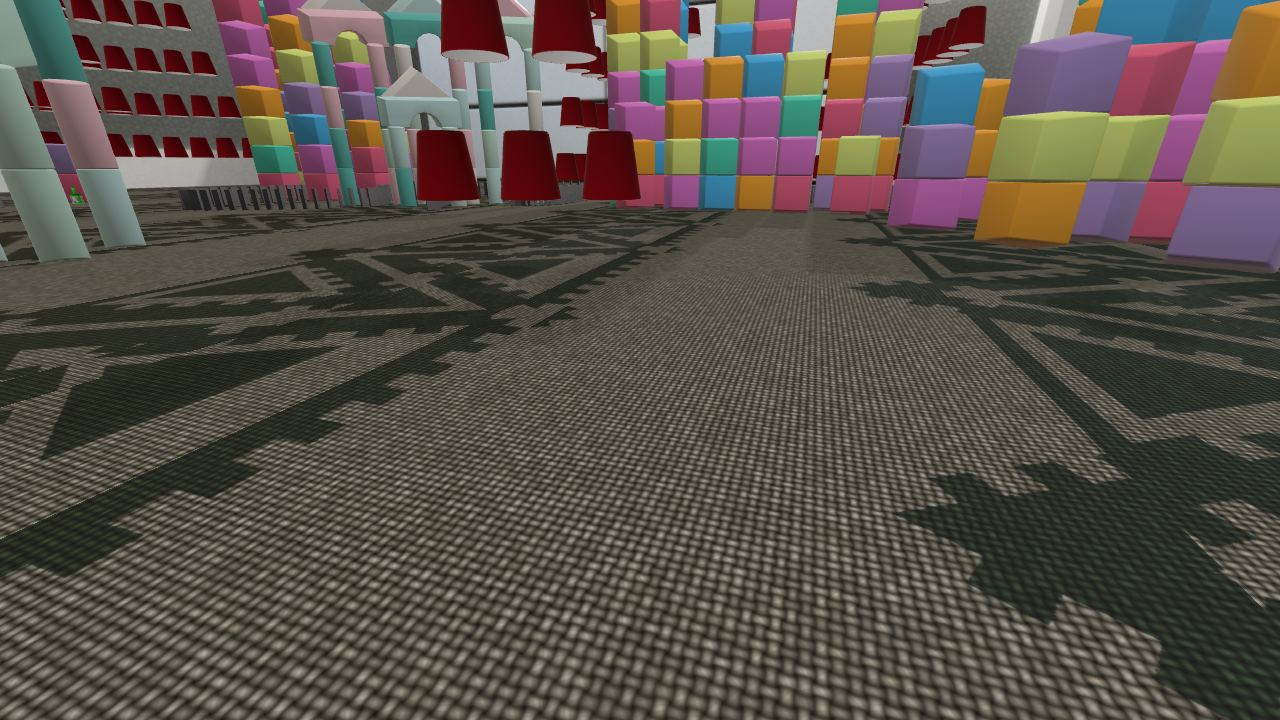
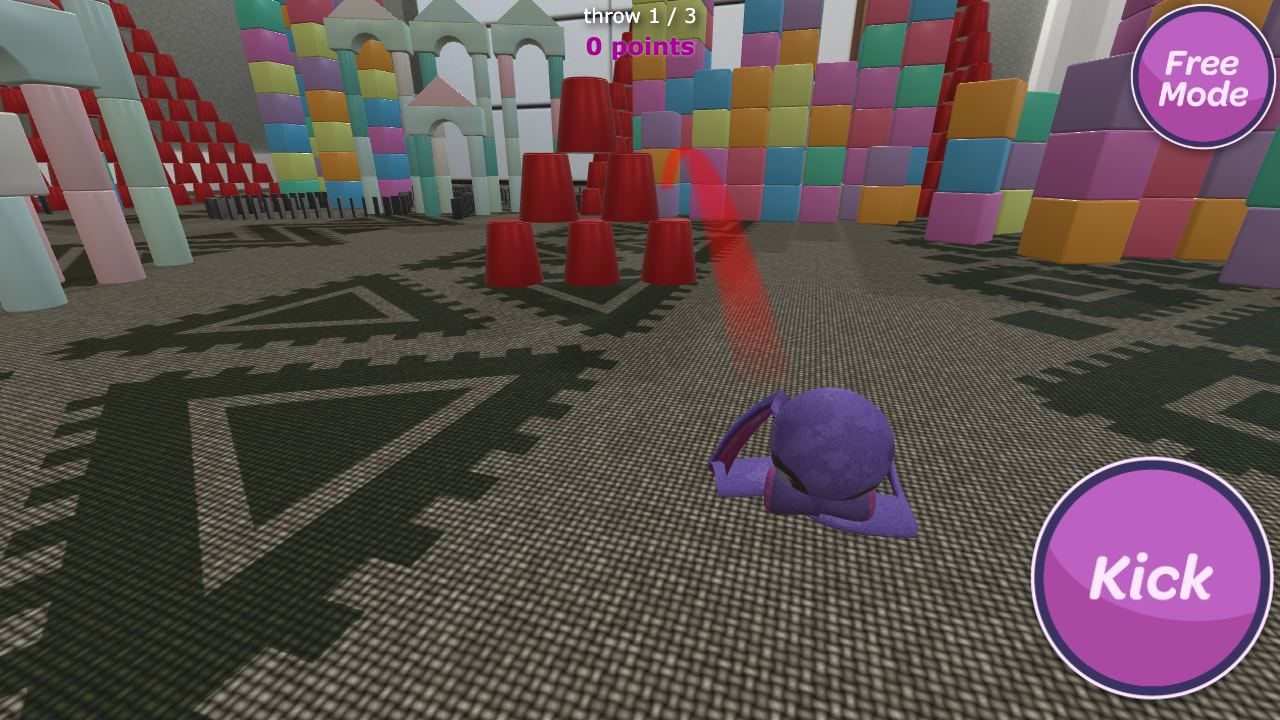
fix(playroom): match source ragdoll pose

diff --git a/lab/lite/src/demos/playroom/ragdoll.ts b/lab/lite/src/demos/playroom/ragdoll.ts
@@ -200,6 +200,7 @@ function cloneBunny(scene: SceneContext, assets: PlayroomAssets): SceneNode {
 export function createBunnyRagdoll(scene: SceneContext, physics: PhysicsWorld, assets: PlayroomAssets, world: WorldState, launch: Vec3): RagdollState {
     const visualRoot = cloneBunny(scene, assets);
     const records = assets.rig.joints.map((joint) => addBody(scene, physics, world, joint, launch));
+    const jointIndexByName = new Map(assets.rig.joints.map((joint, index) => [joint.name, index]));
     const byName = new Map(assets.rig.joints.map((joint, index) => [joint.name, { joint, record: records[index]! }]));
     const constraints = [];
     for (const joint of assets.rig.joints) {
@@ -221,6 +222,27 @@ export function createBunnyRagdoll(scene: SceneContext, physics: PhysicsWorld, a
     }
     const bones = Object.fromEntries(assets.rig.joints.map((joint) => [joint.name, getBoneByName(assets.bunnySkeleton, joint.name)]));
     const root = byName.get(assets.rig.root)!.record;
+    const jointBindPoses = assets.rig.joints.map((joint) => {
+        const parentIndex = joint.nearestConfiguredParent === null ? -1 : jointIndexByName.get(joint.nearestConfiguredParent)!;
+        const parent = parentIndex < 0 ? null : assets.rig.joints[parentIndex]!;
+        return {
+            rotation: bindWorldRotation(joint),
+            colliderOffset: colliderOffsetWorld(joint),
+            parentIndex,
+            parentLocalOffset:
+                parent === null
+                    ? { x: 0, y: 0, z: 0 }
+                    : rotateVector(quaternionInverse(bindWorldRotation(parent)), {
+                          x: joint.bindWorldPosition[0] - parent.bindWorldPosition[0],
+                          y: joint.bindWorldPosition[1] - parent.bindWorldPosition[1],
+                          z: joint.bindWorldPosition[2] - parent.bindWorldPosition[2],
+                      }),
+        };
+    });
+    const jointDepth = (index: number): number => {
+        const parentIndex = jointBindPoses[index]!.parentIndex;
+        return parentIndex < 0 ? 0 : jointDepth(parentIndex) + 1;
+    };
     const ragdoll: RagdollState = {
         records,
         constraints,
@@ -236,12 +258,10 @@ export function createBunnyRagdoll(scene: SceneContext, physics: PhysicsWorld, a
                 w: record.mesh.rotationQuaternion.w,
             },
         })),
-        jointBindPoses: assets.rig.joints.map((joint) => ({
-            rotation: bindWorldRotation(joint),
-            colliderOffset: colliderOffsetWorld(joint),
-        })),
-        poseOffsetScratch: { x: 0, y: 0, z: 0 },
-        poseRotationScratch: { x: 0, y: 0, z: 0, w: 1 },
+        jointBindPoses,
+        poseOrder: assets.rig.joints.map((_, index) => index).sort((left, right) => jointDepth(left) - jointDepth(right)),
+        posePositions: assets.rig.joints.map(() => ({ x: 0, y: 0, z: 0 })),
+        poseRotations: assets.rig.joints.map(() => ({ x: 0, y: 0, z: 0, w: 1 })),
         launched: false,
     };
     syncBunnyPose(assets, ragdoll);
@@ -249,7 +269,7 @@ export function createBunnyRagdoll(scene: SceneContext, physics: PhysicsWorld, a
 }
 
 export function syncBunnyPose(assets: PlayroomAssets, ragdoll: RagdollState): void {
-    for (let index = 0; index < assets.rig.joints.length; index++) {
+    for (const index of ragdoll.poseOrder) {
         const joint = assets.rig.joints[index]!;
         const bone = ragdoll.bones[joint.name];
         const record = ragdoll.records[index]!;
@@ -258,16 +278,27 @@ export function syncBunnyPose(assets: PlayroomAssets, ragdoll: RagdollState): vo
         }
         const bodyRotation = record.mesh.rotationQuaternion;
         const bindPose = ragdoll.jointBindPoses[index]!;
-        const colliderOffset = ragdoll.poseOffsetScratch;
-        const rotation = ragdoll.poseRotationScratch;
-        rotateVectorToRef(bodyRotation, bindPose.colliderOffset, colliderOffset);
+        const position = ragdoll.posePositions[index]!;
+        const rotation = ragdoll.poseRotations[index]!;
         multiplyQuaternionToRef(bodyRotation, bindPose.rotation, rotation);
+        if (bindPose.parentIndex < 0) {
+            rotateVectorToRef(bodyRotation, bindPose.colliderOffset, position);
+            position.x = record.mesh.position.x - position.x;
+            position.y = record.mesh.position.y - position.y;
+            position.z = record.mesh.position.z - position.z;
+        } else {
+            const parentPosition = ragdoll.posePositions[bindPose.parentIndex]!;
+            rotateVectorToRef(ragdoll.poseRotations[bindPose.parentIndex]!, bindPose.parentLocalOffset, position);
+            position.x += parentPosition.x;
+            position.y += parentPosition.y;
+            position.z += parentPosition.z;
+        }
         setBoneWorldPoseDeferred(
             assets.bunnySkeleton,
             bone,
-            (record.mesh.position.x - colliderOffset.x) / assets.rig.gameScale,
-            (record.mesh.position.y - colliderOffset.y) / assets.rig.gameScale,
-            (record.mesh.position.z - colliderOffset.z) / assets.rig.gameScale,
+            position.x / assets.rig.gameScale,
+            position.y / assets.rig.gameScale,
+            position.z / assets.rig.gameScale,
             rotation.x,
             rotation.y,
             rotation.z,

diff --git a/tests/lite/unit/playroom-ragdoll.test.ts b/tests/lite/unit/playroom-ragdoll.test.ts
@@ -15,7 +15,6 @@ import type { Bone, PhysicsWorld, Quat, SceneContext, Skeleton } from "../../../
 import {
     bindWorldRotation,
     colliderOffsetWorld,
-    currentColliderOffsetWorld,
     launchBunny,
     ragdollBodyPosition,
     ragdollJointPivots,
@@ -152,12 +151,38 @@ describe("The Playroom ragdoll bind conversion", () => {
             records,
             bones: Object.fromEntries(bones.map((bone) => [bone.name, bone])),
             root: records[rig.joints.findIndex((joint) => joint.name === rig.root)]!,
-            jointBindPoses: rig.joints.map((joint) => ({
-                rotation: bindWorldRotation(joint),
-                colliderOffset: colliderOffsetWorld(joint),
-            })),
-            poseOffsetScratch: { x: 0, y: 0, z: 0 },
-            poseRotationScratch: { x: 0, y: 0, z: 0, w: 1 },
+            jointBindPoses: rig.joints.map((joint) => {
+                const parentIndex = joint.nearestConfiguredParent === null ? -1 : rig.joints.findIndex((candidate) => candidate.name === joint.nearestConfiguredParent);
+                const parent = parentIndex < 0 ? null : rig.joints[parentIndex]!;
+                const parentRotation = parent === null ? identity : bindWorldRotation(parent);
+                return {
+                    rotation: bindWorldRotation(joint),
+                    colliderOffset: colliderOffsetWorld(joint),
+                    parentIndex,
+                    parentLocalOffset:
+                        parent === null
+                            ? { x: 0, y: 0, z: 0 }
+                            : rotateByQuaternion(
+                                  { x: -parentRotation.x, y: -parentRotation.y, z: -parentRotation.z, w: parentRotation.w },
+                                  {
+                                      x: joint.bindWorldPosition[0] - parent.bindWorldPosition[0],
+                                      y: joint.bindWorldPosition[1] - parent.bindWorldPosition[1],
+                                      z: joint.bindWorldPosition[2] - parent.bindWorldPosition[2],
+                                  }
+                              ),
+                };
+            }),
+            poseOrder: rig.joints
+                .map((_, index) => index)
+                .sort((left, right) => {
+                    const depth = (index: number): number => {
+                        const parent = rig.joints[index]!.nearestConfiguredParent;
+                        return parent === null ? 0 : depth(rig.joints.findIndex((joint) => joint.name === parent)) + 1;
+                    };
+                    return depth(left) - depth(right);
+                }),
+            posePositions: rig.joints.map(() => ({ x: 0, y: 0, z: 0 })),
+            poseRotations: rig.joints.map(() => ({ x: 0, y: 0, z: 0, w: 1 })),
         } as unknown as RagdollState;
         const assets = { rig, bunnySkeleton: skeleton } as unknown as PlayroomAssets;
 
@@ -167,16 +192,10 @@ describe("The Playroom ragdoll bind conversion", () => {
         expect(skeleton._overrides.size).toBe(0);
         expect(skeleton._worldOverrides.size).toBe(rig.joints.length);
         for (const [index, joint] of rig.joints.entries()) {
-            const record = records[index]!;
-            const bodyRotation = record.mesh.rotationQuaternion;
-            const offset = currentColliderOffsetWorld(joint, bodyRotation);
             const matrix = skeleton._worldOverrides.get(index)!;
-            const expectedPosition = [
-                (record.mesh.position.x - offset.x) / rig.gameScale,
-                (record.mesh.position.y - offset.y) / rig.gameScale,
-                (record.mesh.position.z - offset.z) / rig.gameScale,
-            ];
-            expectedPosition.forEach((value, axis) => expect(matrix[12 + axis]).toBeCloseTo(value, 5));
+            const expectedPosition = ragdoll.posePositions[index]!;
+            [expectedPosition.x, expectedPosition.y, expectedPosition.z].forEach((value, axis) => expect(matrix[12 + axis]).toBeCloseTo(value / rig.gameScale, 5));
+            const bodyRotation = records[index]!.mesh.rotationQuaternion;
             const desiredRotation = multiplyQuaternions(bodyRotation, bindWorldRotation(joint));
             const expectedAxes = [
                 rotateByQuaternion(desiredRotation, { x: -1, y: 0, z: 0 }),
@@ -190,6 +209,9 @@ describe("The Playroom ragdoll bind conversion", () => {
                 expect(matrix[offset + 2]).toBeCloseTo(axis.z, 5);
             });
         }
+        const armIndex = rig.joints.findIndex((joint) => joint.name === "arm_r");
+        const armMatrix = skeleton._worldOverrides.get(armIndex)!;
+        expect(armMatrix[12]).not.toBeCloseTo(records[armIndex]!.mesh.position.x / rig.gameScale, 2);
     });
 
     it("keeps joint anchors coincident and uses source joint axes", () => {

diff --git a/tests/lite/integration/playroom/ragdoll.spec.ts b/tests/lite/integration/playroom/ragdoll.spec.ts
@@ -94,6 +94,10 @@ function loadRagdollBindLandmarks(): RagdollBindLandmark[] {
 }
 
 const ragdollBindLandmarks = loadRagdollBindLandmarks();
+const ragdollRig = JSON.parse(readFileSync(resolve(process.cwd(), "lab", "public", "playroom", "gltf", "bunny-rig.json"), "utf8")) as {
+    root: string;
+    joints: Array<{ name: string; nearestConfiguredParent: string | null }>;
+};
 
 function quaternionMultiply(left: readonly number[], right: readonly number[]): number[] {
     return [
@@ -134,8 +138,32 @@ function expectFinalSkinAligned(before: RagdollSkinSnapshot, current: RagdollSki
     expect(current.gpu.jointsBufferId).toBe(before.gpu.jointsBufferId);
     expect(current.gpu.weightsBufferId).toBe(before.gpu.weightsBufferId);
 
+    const expectedPositions = new Map<string, readonly number[]>();
+    const unresolved = new Set(ragdollRig.joints.map((joint) => joint.name));
+    while (unresolved.size > 0) {
+        let resolved = false;
+        for (const joint of ragdollRig.joints) {
+            if (!unresolved.has(joint.name) || (joint.nearestConfiguredParent !== null && !expectedPositions.has(joint.nearestConfiguredParent))) {
+                continue;
+            }
+            if (joint.nearestConfiguredParent === null) {
+                expectedPositions.set(joint.name, current.bodies[joint.name]!.jointPosition);
+            } else {
+                const parentName = joint.nearestConfiguredParent;
+                const parentDelta = quaternionMultiply(current.bodies[parentName]!.rotation, inverseQuaternion(before.bodies[parentName]!.rotation));
+                expectedPositions.set(
+                    joint.name,
+                    add(expectedPositions.get(parentName)!, rotate(parentDelta, subtract(before.bones[joint.name]!.position, before.bones[parentName]!.position)))
+                );
+            }
+            unresolved.delete(joint.name);
+            resolved = true;
+        }
+        expect(resolved, "ragdoll configured-joint hierarchy").toBe(true);
+    }
+
     for (const configuredName of Object.keys(current.bodies)) {
-        expect(distance(current.bones[configuredName]!.position, current.bodies[configuredName]!.jointPosition), `${configuredName} palette joint`).toBeLessThan(0.001);
+        expect(distance(current.bones[configuredName]!.position, expectedPositions.get(configuredName)!), `${configuredName} source hierarchy`).toBeLessThan(0.001);
         const delta = quaternionMultiply(current.bodies[configuredName]!.rotation, inverseQuaternion(before.bodies[configuredName]!.rotation));
         for (let axis = 0; axis < 3; axis++) {
             expect(distance(current.bones[configuredName]!.axes[axis]!, rotate(delta, before.bones[configuredName]!.axes[axis]!)), `${configuredName} axis ${axis}`).toBeLessThan(
@@ -152,7 +180,10 @@ function expectFinalSkinAligned(before: RagdollSkinSnapshot, current: RagdollSki
         const beforeBody = before.bodies[configuredName]!;
         const currentBody = current.bodies[configuredName]!;
         const delta = quaternionMultiply(currentBody.rotation, inverseQuaternion(beforeBody.rotation));
-        const expectedPosition = add(currentBody.jointPosition, rotate(delta, subtract(before.bones[landmark.name]!.position, beforeBody.jointPosition)));
+        const expectedPosition = add(
+            current.bones[configuredName]!.position,
+            rotate(delta, subtract(before.bones[landmark.name]!.position, before.bones[configuredName]!.position))
+        );
         expect(distance(current.bones[landmark.name]!.position, expectedPosition), `${landmark.name} inherited position`).toBeLessThan(0.002);
         for (let axis = 0; axis < 3; axis++) {
             expect(

diff --git a/lab/lite/src/tests/playroom-ragdoll-harness.ts b/lab/lite/src/tests/playroom-ragdoll-harness.ts
@@ -17,7 +17,7 @@ import {
 import type { Mesh, PhysicsBody, PhysicsWorld, SceneContext, SceneNode } from "babylon-lite";
 import { resetGameplayCounters } from "../demos/playroom/game.js";
 import { loadPlayroomAssets } from "../demos/playroom/assets.js";
-import { createBunnyRagdoll, currentColliderOffsetWorld, installBunnyPoseSync, launchBunny, relocateBunny } from "../demos/playroom/ragdoll.js";
+import { createBunnyRagdoll, installBunnyPoseSync, launchBunny, relocateBunny } from "../demos/playroom/ragdoll.js";
 import type { PlayroomAssets, RagdollState } from "../demos/playroom/types.js";
 import { buildPlayroomWorld } from "../demos/playroom/world.js";
 
@@ -166,9 +166,8 @@ function skeletonPaletteMatchesPhysics(assets: PlayroomAssets, ragdoll: RagdollS
         const sourceBindPoint = inverseAffinePoint(mesh.worldMatrix, [-joint.bindWorldPosition[0], joint.bindWorldPosition[1], joint.bindWorldPosition[2]]);
         const palettePoint = transformPoint(mesh.skeleton!.boneMatrices.subarray(boneIndex * 16, boneIndex * 16 + 16), sourceBindPoint);
         const renderedJoint = transformPoint(mesh.worldMatrix, palettePoint);
-        const record = ragdoll.records[recordIndex]!;
-        const colliderOffset = currentColliderOffsetWorld(joint, record.mesh.rotationQuaternion);
-        return closeNumbers(renderedJoint, [record.mesh.position.x - colliderOffset.x, record.mesh.position.y - colliderOffset.y, record.mesh.position.z - colliderOffset.z], 1e-4);
+        const expected = ragdoll.posePositions[recordIndex]!;
+        return closeNumbers(renderedJoint, [expected.x, expected.y, expected.z], 1e-4);
     });
 }
 

diff --git a/lab/lite/src/demos/playroom/types.ts b/lab/lite/src/demos/playroom/types.ts
@@ -119,9 +119,12 @@ export interface RagdollState {
     readonly jointBindPoses: ReadonlyArray<{
         readonly rotation: Quat;
         readonly colliderOffset: Vec3;
+        readonly parentIndex: number;
+        readonly parentLocalOffset: Vec3;
     }>;
-    readonly poseOffsetScratch: Vec3;
-    readonly poseRotationScratch: Quat;
+    readonly poseOrder: readonly number[];
+    readonly posePositions: Vec3[];
+    readonly poseRotations: Quat[];
     launched: boolean;
 }
 
